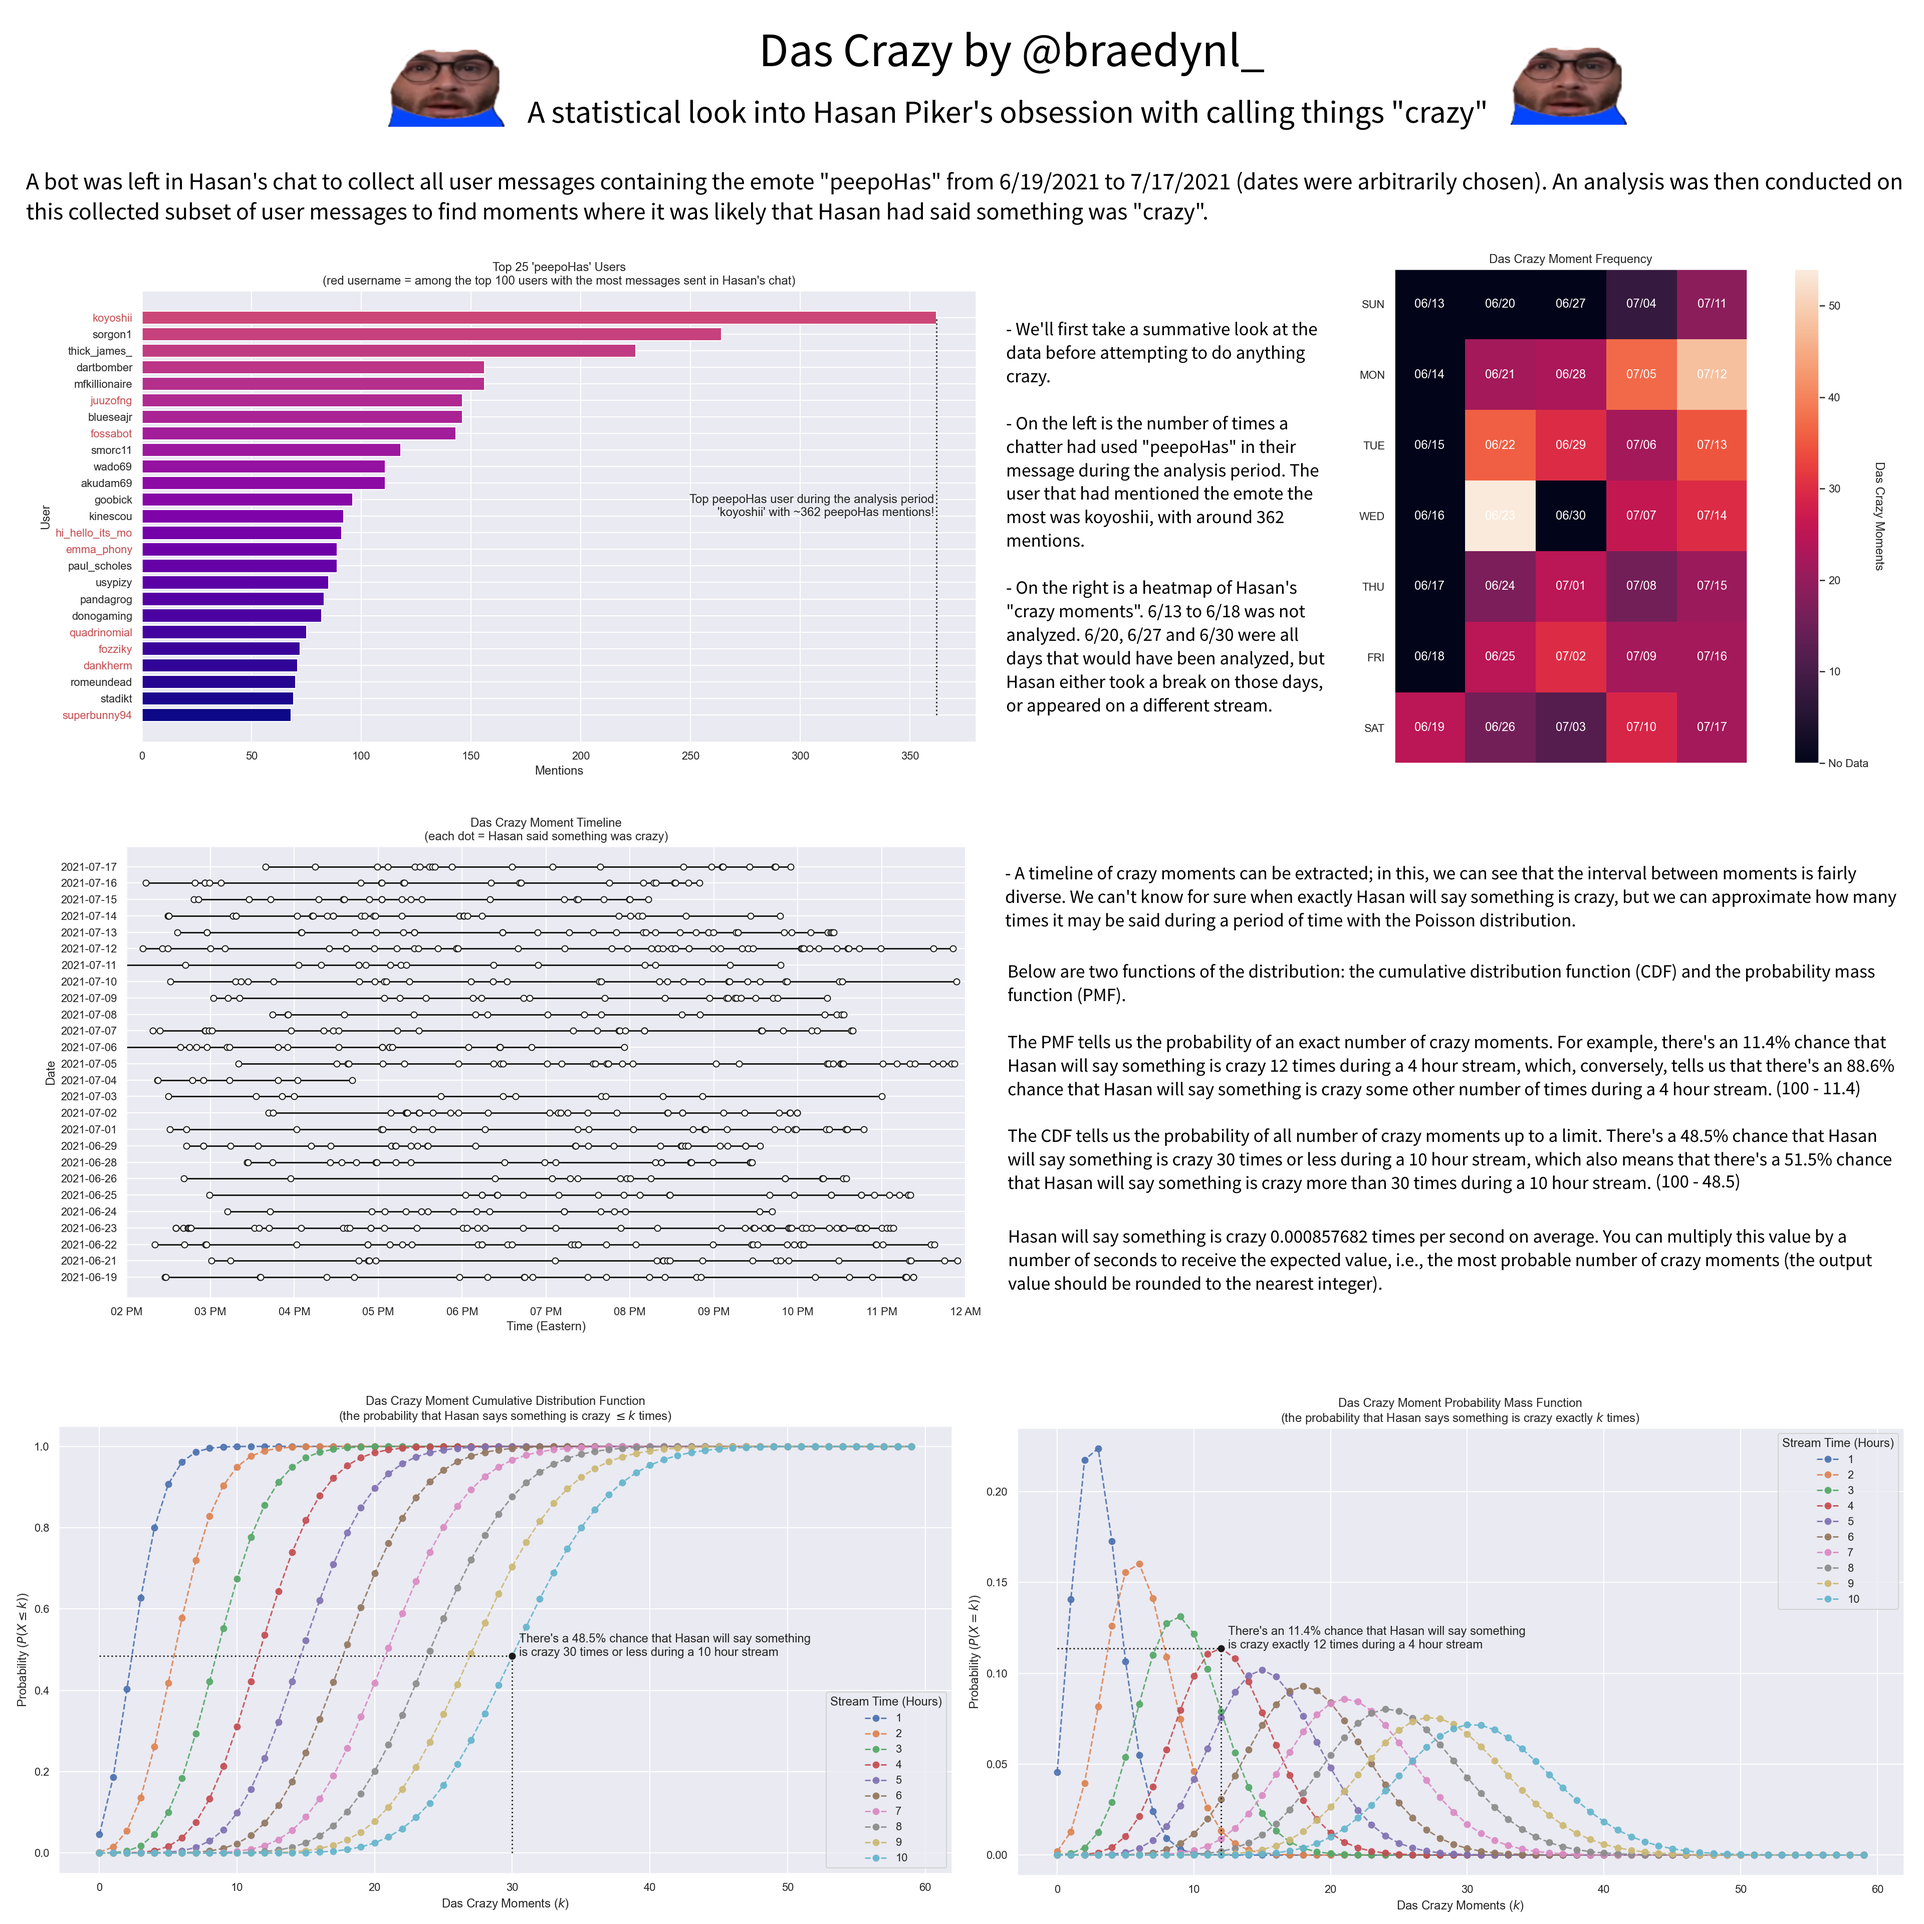
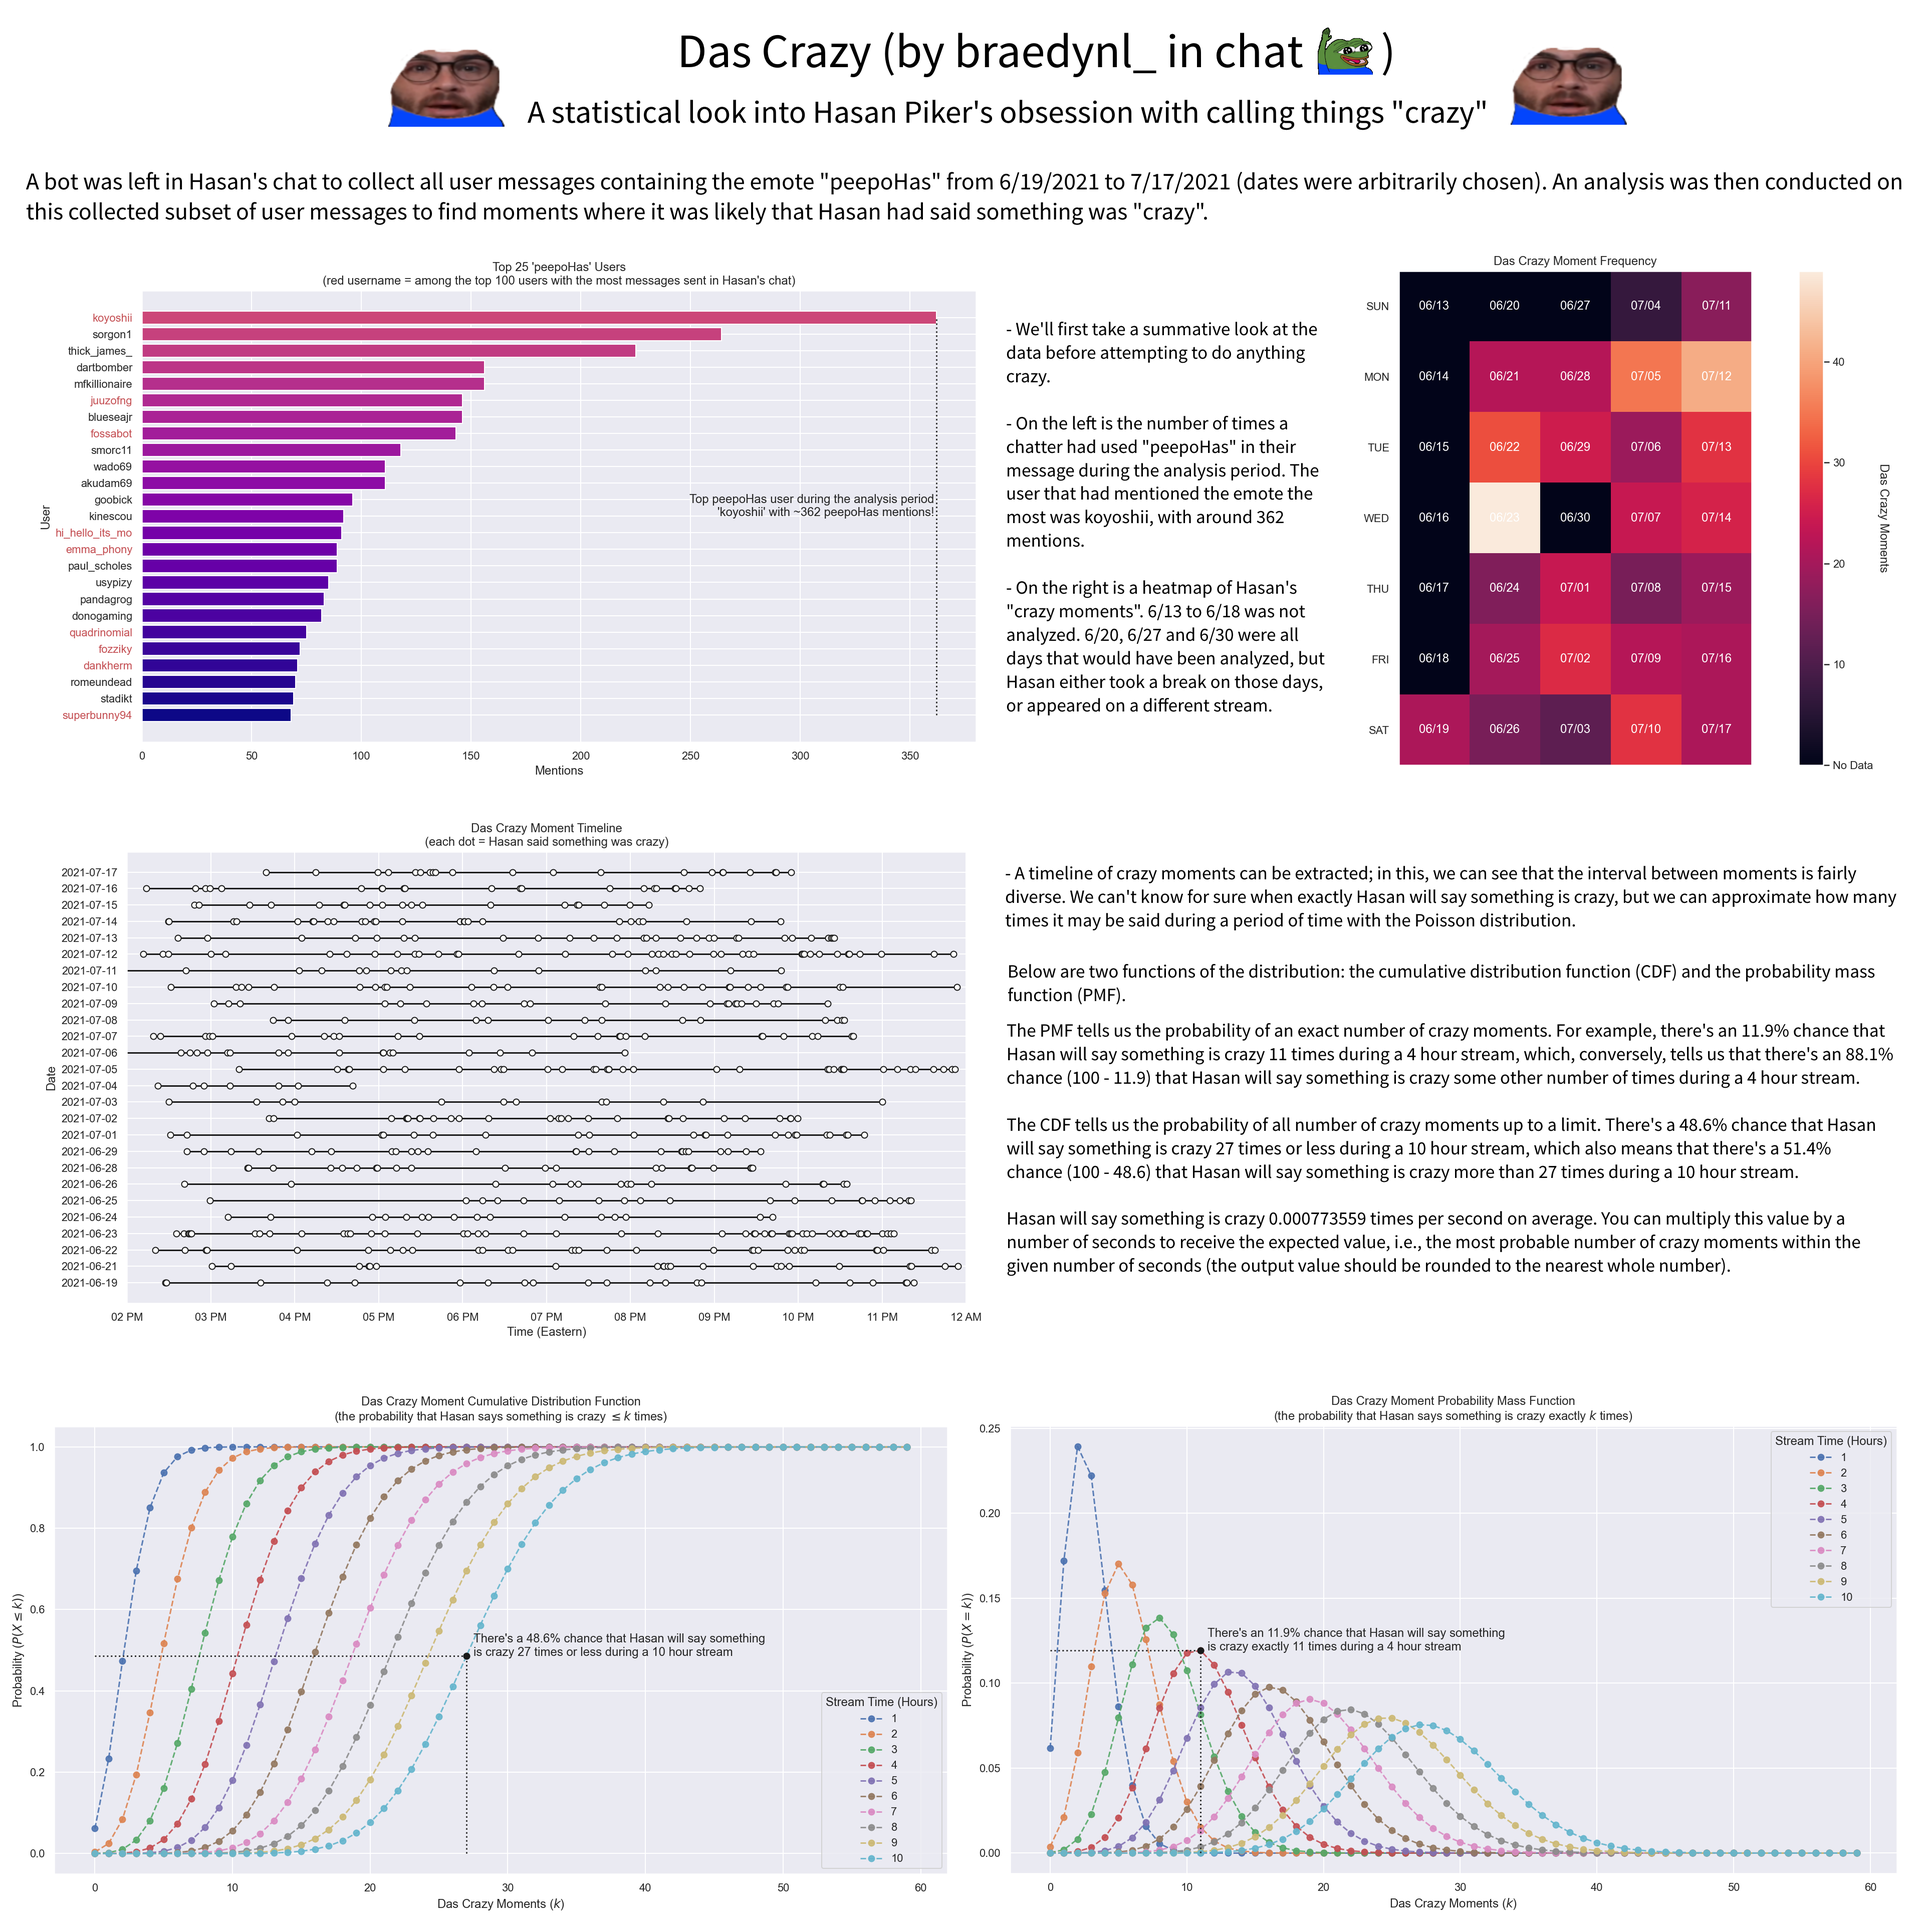
Corrected a fairly large mistake

diff --git a/clean.py b/clean.py
@@ -11,16 +11,19 @@ def main(raw_filename: str, clean_filename: str) -> None:
     indicator_row = None
 
     for _, row in raw_data.iterrows():
-        if "crazy" in row["message"].lower():
+
+        message = row["message"].lower()
+
+        if "crazy" in message:
 
             # Filters other users messaging at (roughly) the same time, i.e., discards
             # all messages containing the word "crazy" within a 30 second interval
 
-            # The user can alternatively be myself, as my messages can often capture
-            # "das crazy" moments that are back-to-back
+            # The user can alternatively be myself, as I will notate "x2" if there were
+            # two back-to-back crazy moments (I've never witnessed more than two)
             if (
-                indicator_row is None
-                or row["user"] == "braedynl_"
+                (indicator_row is None)
+                or (row["user"] == "braedynl_" and "x2" in message)
                 or (row["sent"] - indicator_row["sent"]).total_seconds() > 30
             ):
                 indicator_row = row

diff --git a/main.py b/main.py
@@ -25,7 +25,7 @@ FIG_WIDTH = 1920 / DPI
 FIG_HEIGHT = 1080 / DPI
 
 # Average das crazy moments per second (see /data/clean_worksheet.xlsx to see how this value was calculated)
-MOMENT_RATE = 0.000857682
+MOMENT_RATE = 0.000773559
 
 # Heatmap day abbreviations
 DAYS = ("SUN", "MON", "TUE", "WED", "THU", "FRI", "SAT")
@@ -264,7 +264,7 @@ def das_crazy_pmf(time_range: Sequence[Annotated[float, Hours]], moment_range: S
     )
 
     t = time_range[3]
-    x = 12
+    x = 11
     y = poisson.pmf(x, MOMENT_RATE * (t * 3600))
     trace_coordinate(ax, (x, y))
     ax.annotate(
@@ -293,7 +293,7 @@ def das_crazy_cdf(time_range: Sequence[Annotated[float, Hours]], moment_range: S
     )
 
     t = time_range[-1]
-    x = 30
+    x = 27
     y = poisson.cdf(x, MOMENT_RATE * (t * 3600))
     trace_coordinate(ax, (x, y))
     ax.annotate(
